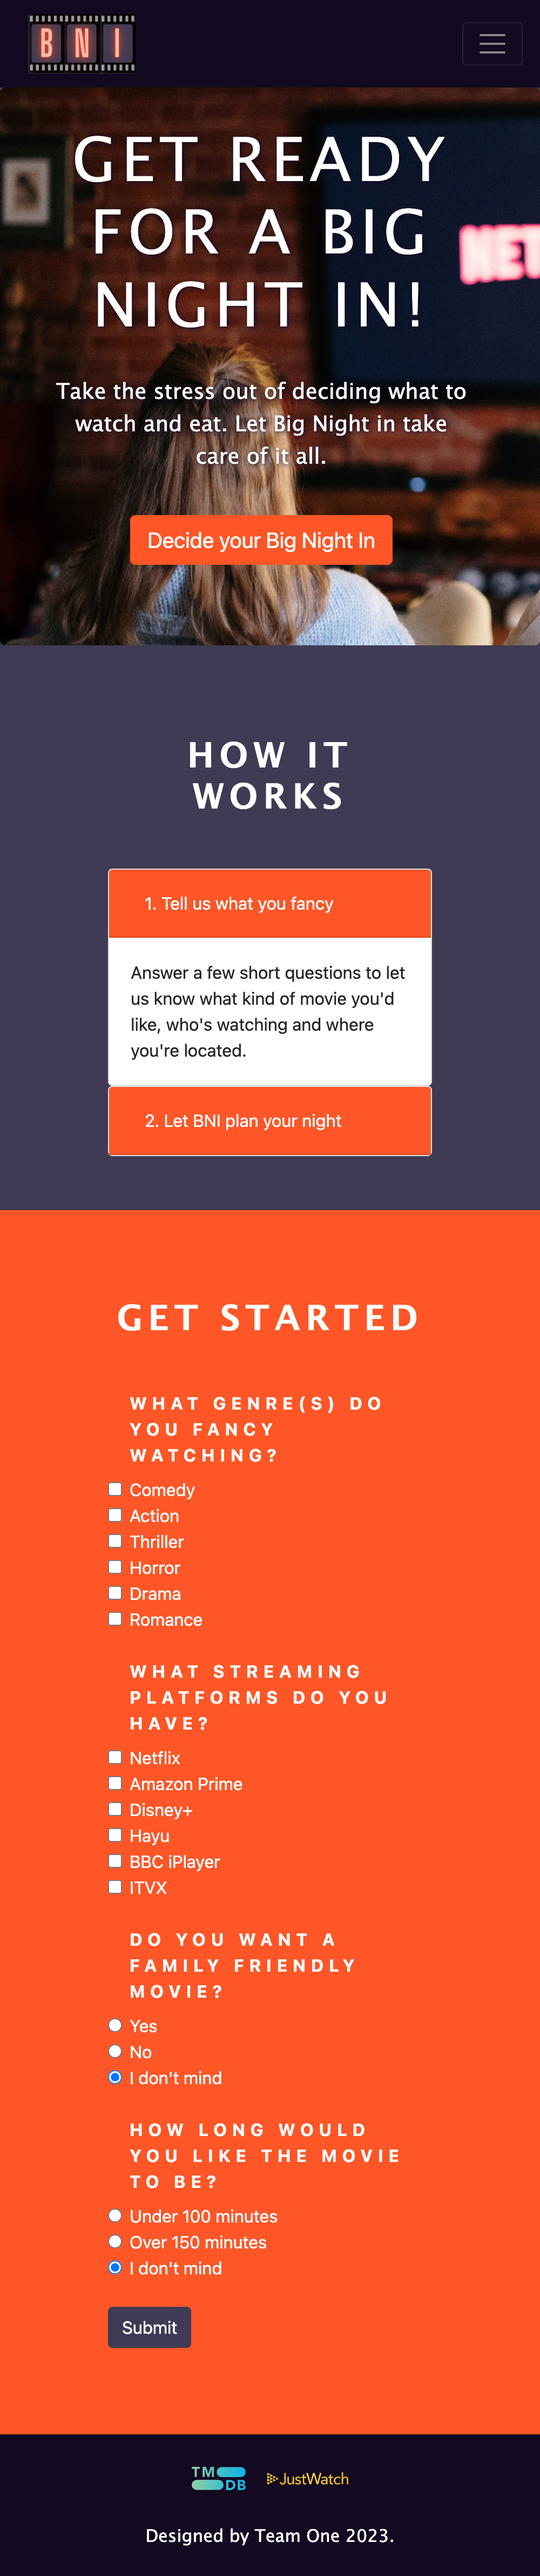
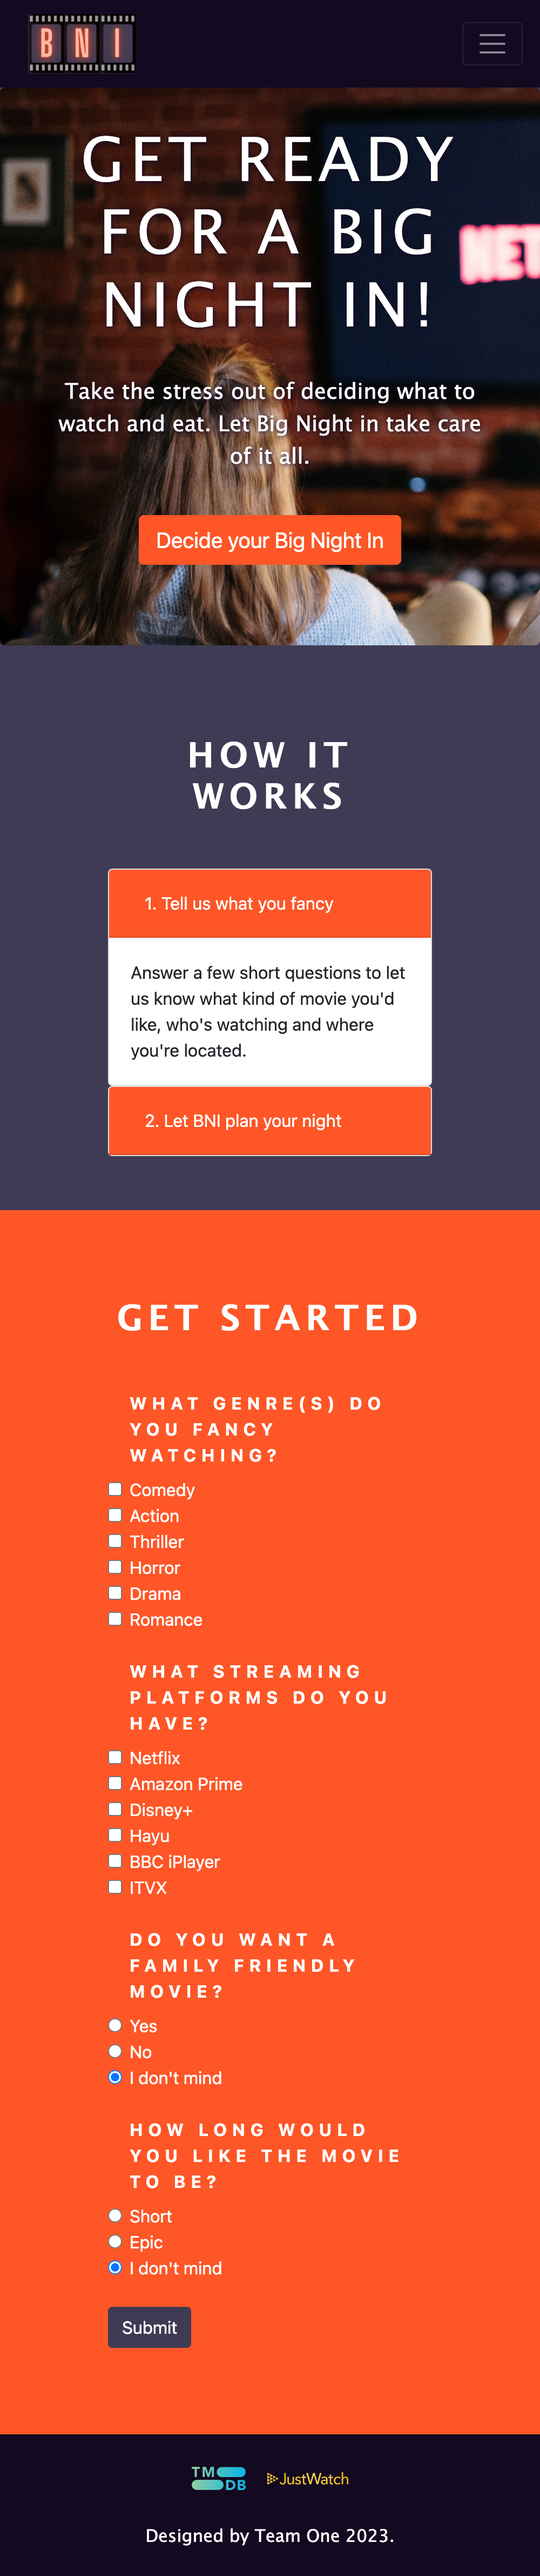
CSS styling

Changed region(s): [[0.124, 0.0311, 0.837, 0.2174], [0.837, 0.1553, 0.899, 0.1863], [0.248, 0.8384, 0.31, 0.8695]]

diff --git a/assets/style.css b/assets/style.css
@@ -250,6 +250,11 @@ footer p {
 /* Media Queries */
 
 @media screen and (max-width: 864px) {
+  h1 {
+    padding-left: 5px;
+    padding-right: 5px;
+  }
+
   .container-results h3 {
     width: 80%;
   }
